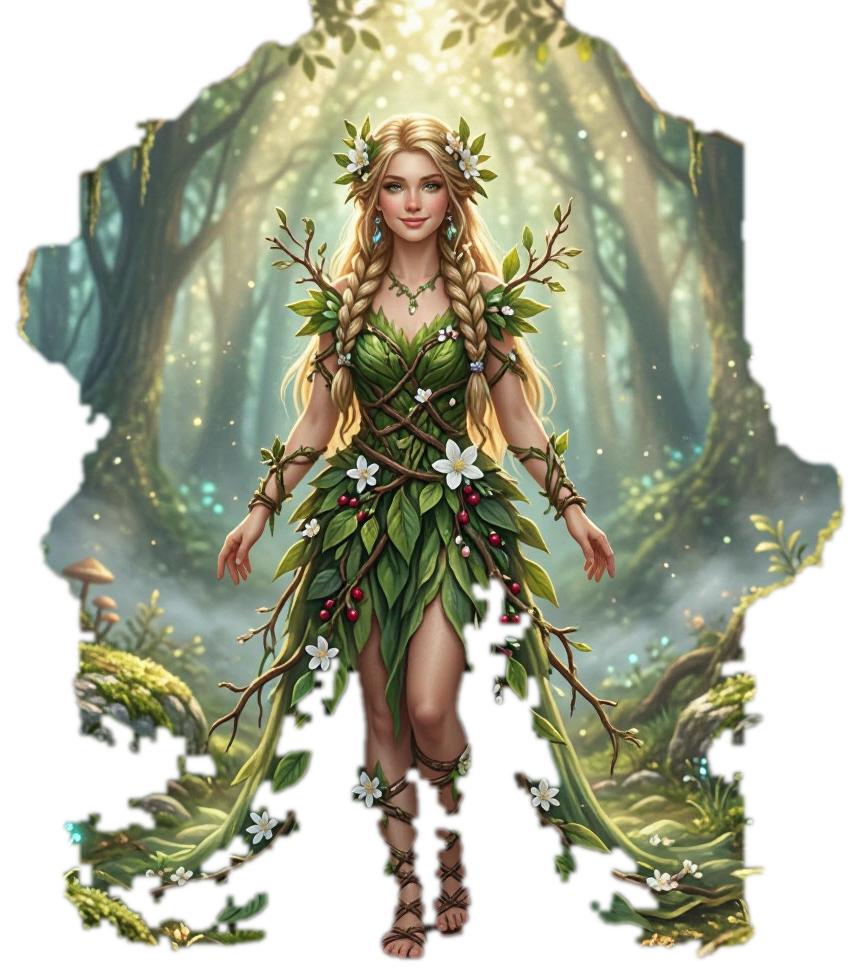
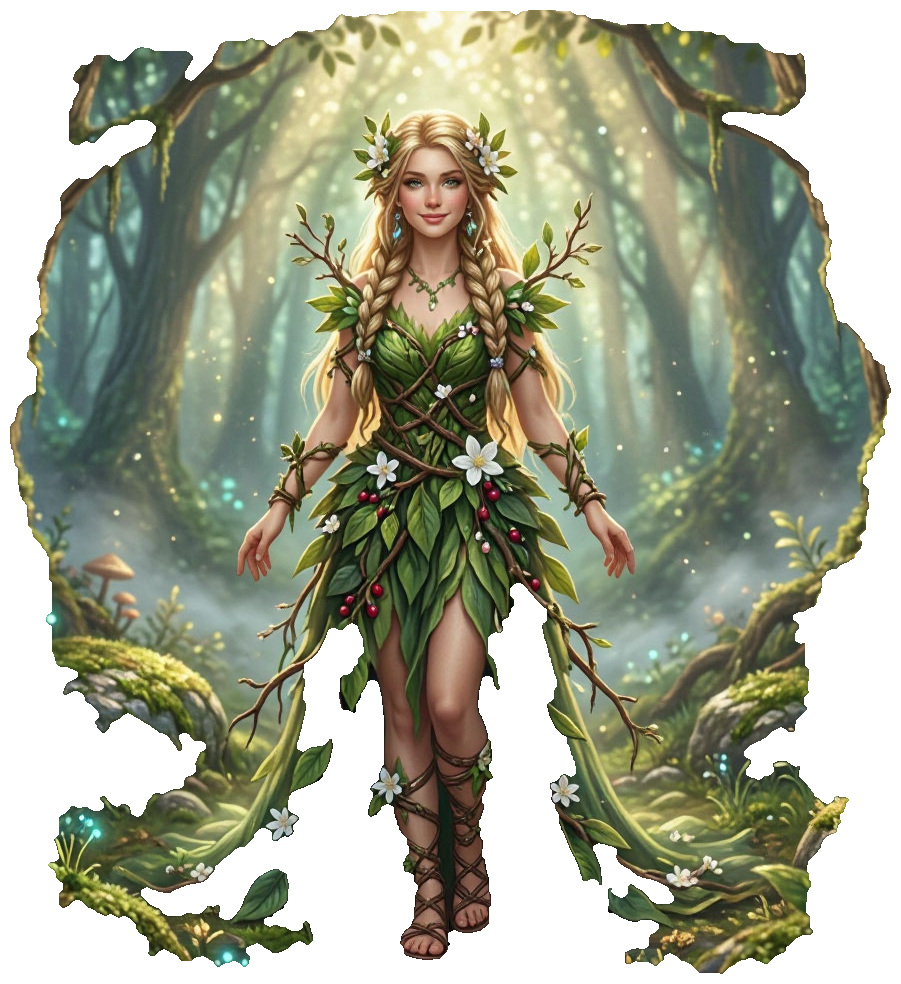
Make NPC fully opaque and remove background cleanly

diff --git a/styles.css b/styles.css
@@ -464,13 +464,13 @@ body:has(#screen-home.active) #app { padding: 0; max-width: none; }
 .npc-companion.hidden { opacity: 0; transform: translateY(20px) scale(.96); }
 .npc-sprite {
   width: 100%; height: auto; display: block;
-  filter: drop-shadow(0 18px 28px rgba(0,0,0,.35)) drop-shadow(0 0 24px rgba(255,220,140,.18));
+  filter: drop-shadow(0 10px 18px rgba(0,0,0,.28));
   transform-origin: 50% 85%;
   animation: npcBreathe 4.8s ease-in-out infinite;
 }
 .npc-shadow {
   width: 62%; height: 18px; margin-top: -8px; border-radius: 50%;
-  background: transparent, transparent 68%);
+  background: radial-gradient(ellipse at center, rgba(0,0,0,.28), transparent 68%);
   animation: npcShadow 4.8s ease-in-out infinite;
 }
 .npc-bubble {
